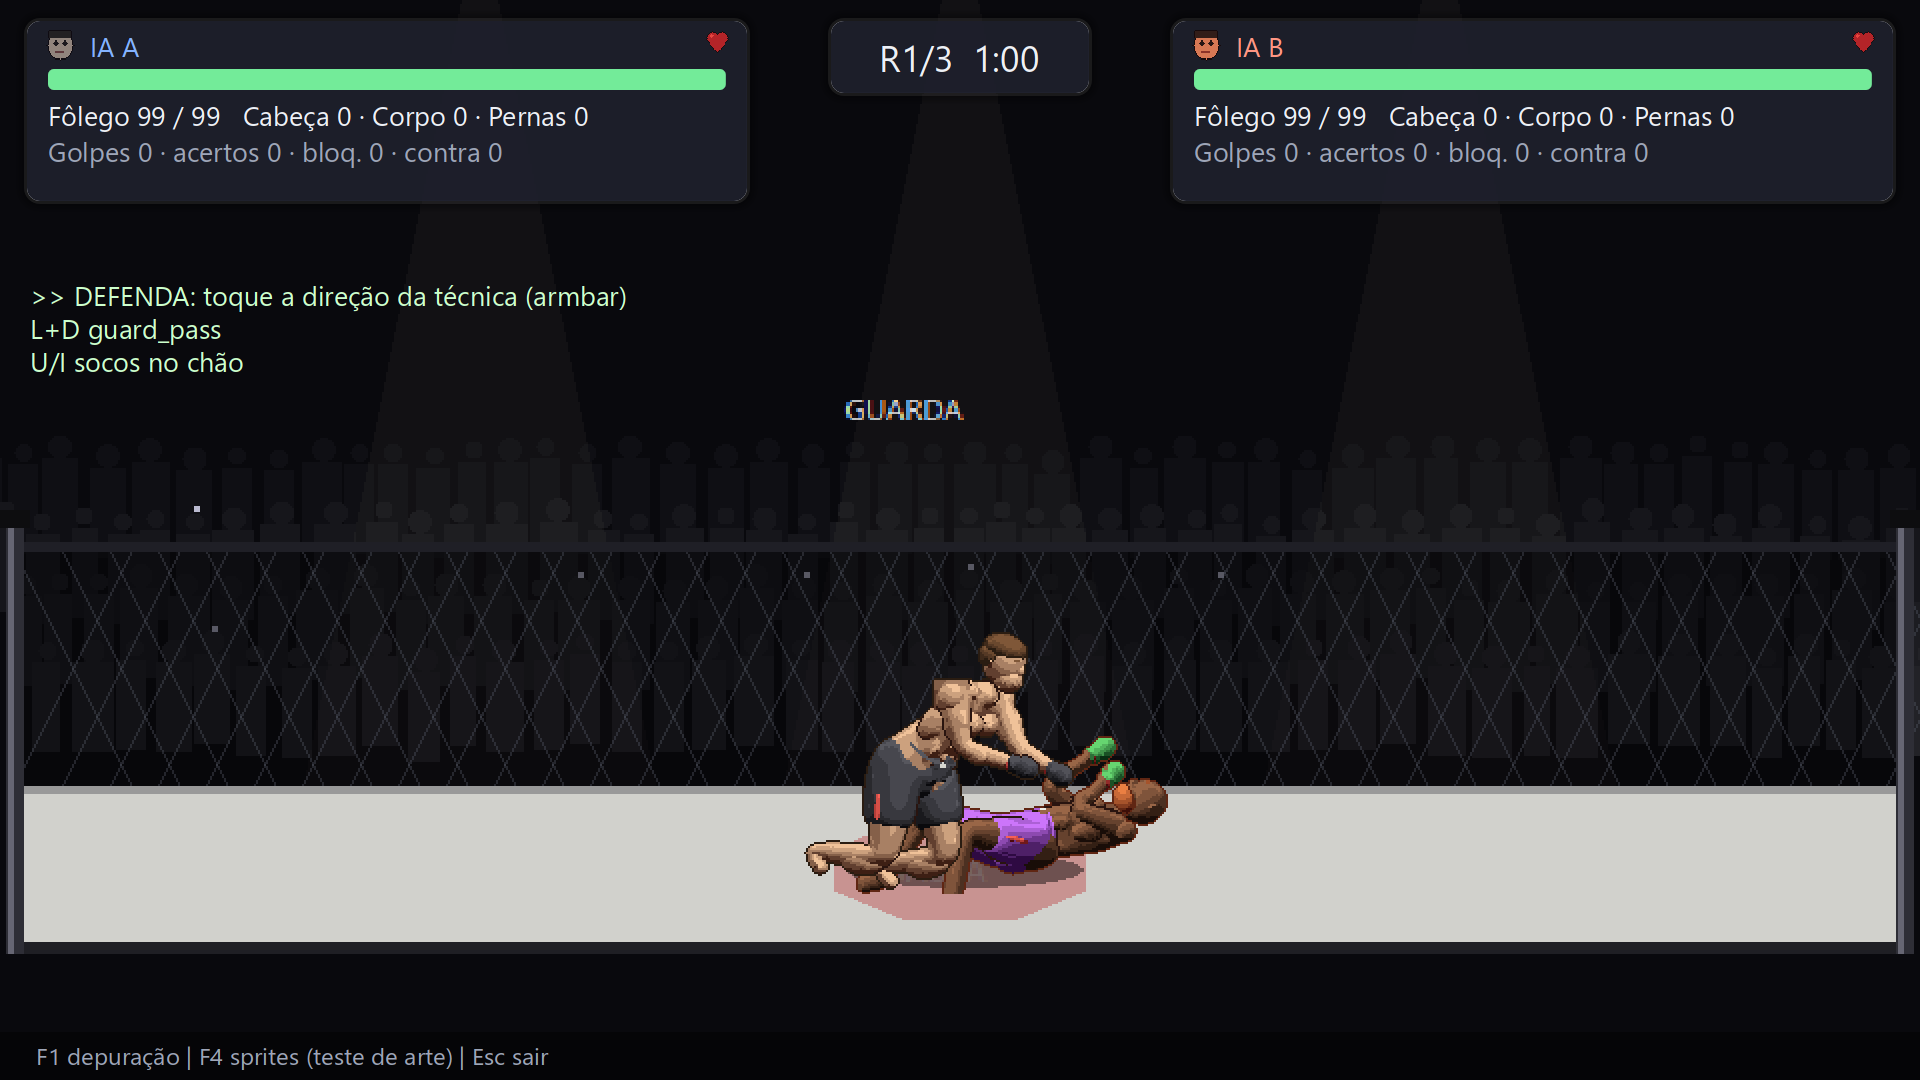
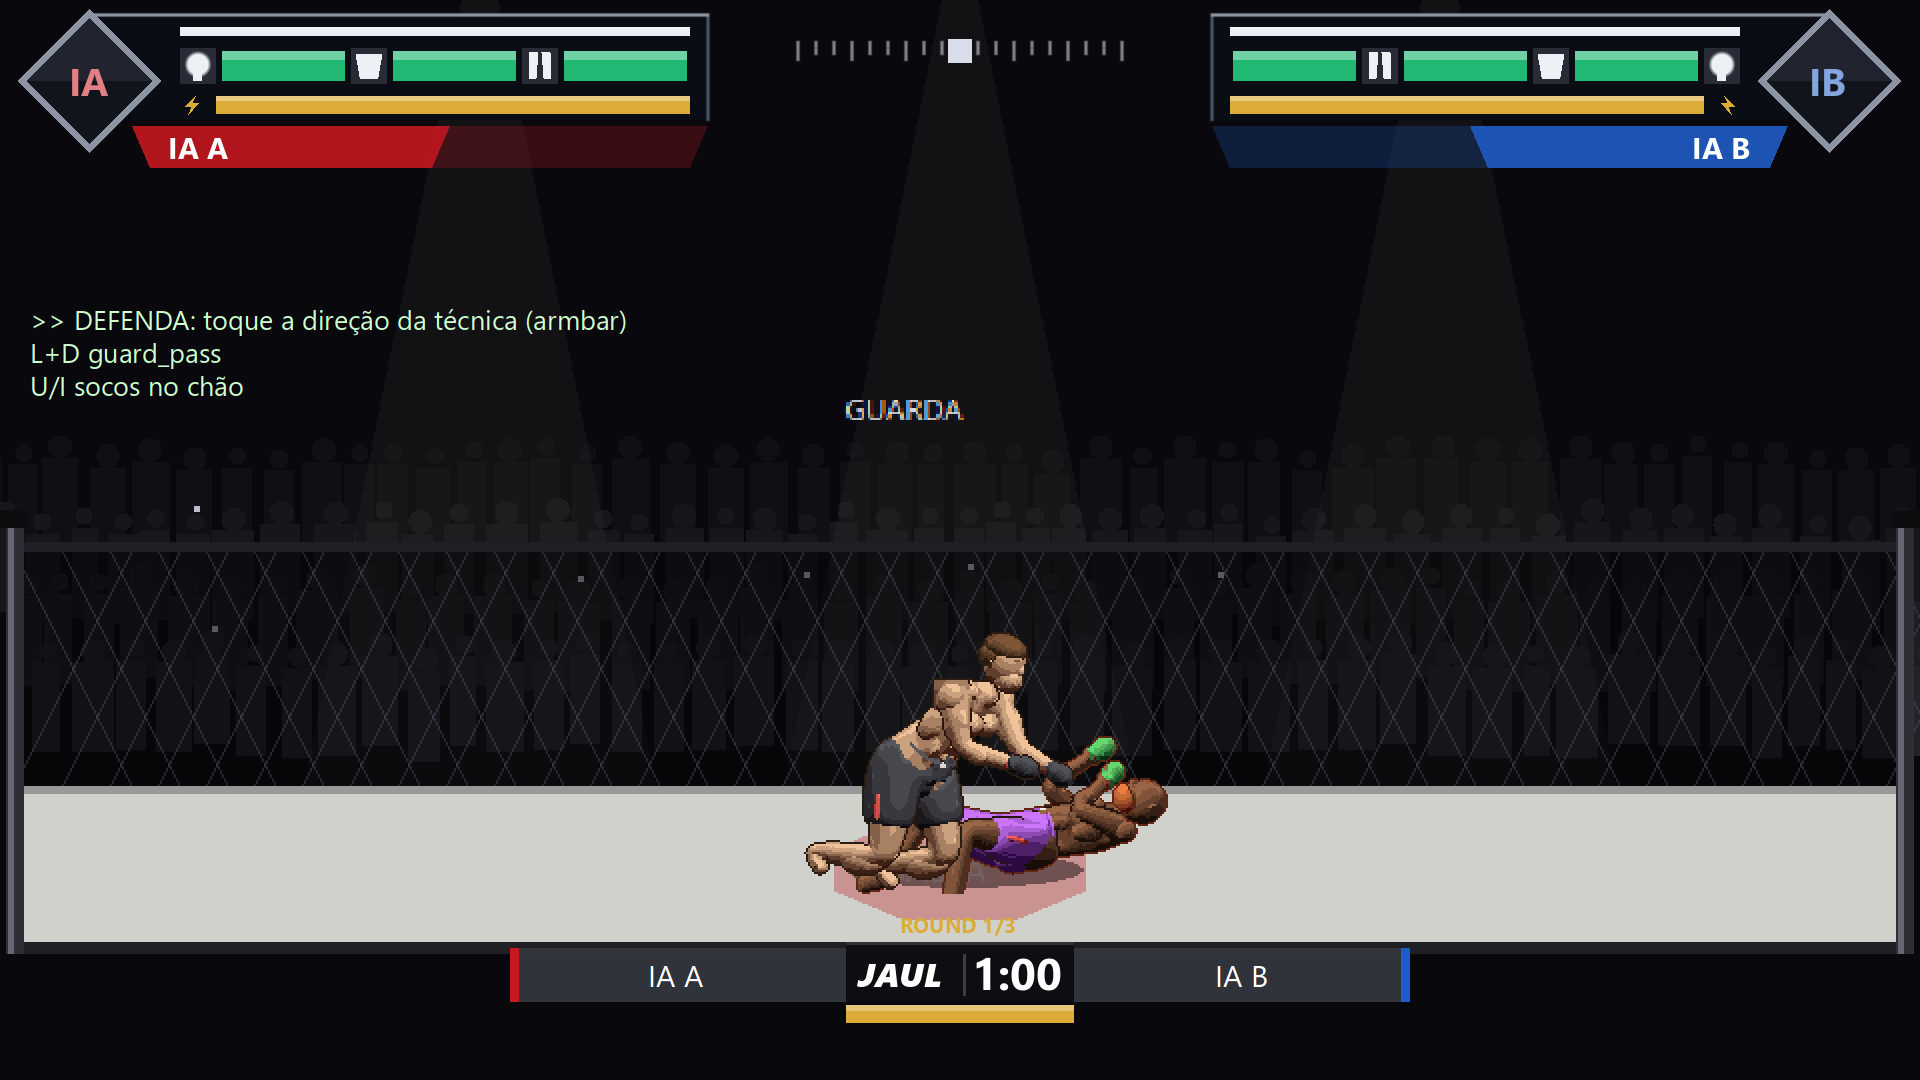
HUD de luta no estilo de transmissão e HUD de dano opcional (D-023)
- Painéis de canto: emblema com iniciais, reserva, dano por cabeça/corpo/pernas, fôlego, faixa do córner
- Régua de domínio no topo; placar centralizado com organização fictícia, cronômetro, round e barra do tempo
- Opção 'HUD de dano' nas configurações (persistida); intervalo e fim de luta restilizados
- 168 testes passando

diff --git a/docs/DECISIONS.md b/docs/DECISIONS.md
@@ -29,6 +29,7 @@
 | D-018 | **Menus e HUD em HD** (UI renderizada na resolução da janela, fonte do sistema); a luta continua em pixel art fiel numa SubViewport 640×360 (revisa T-011) | Pedido do usuário, 2026-11-20 |
 | D-019 | **Criador de visual** estilo Stardew/Terraria: sprites em camadas (corpo, 3 cabelos, barba) e troca de paleta por shader (8 peles, 6 cores de cabelo, 8 calções, 6 luvas); biótipos m_medium e f_medium; aba Visual na carreira (gratuita, só aparência) | Pedido do usuário, 2026-11-20 (resolve P-004 de forma inicial) |
 | D-020 | **HUD e telas com elementos de RPG**: ícones em pixel art gerados por código, cinturões, selo de nível, ficha de atributos | Pedido do usuário, 2026-11-20 |
+| D-023 | **HUD de luta no estilo de transmissão** (referência: jogo de MMA da EA enviado pelo usuário, sem marcas reais): painéis de canto com emblema, reserva, dano por região e fôlego, faixa do nome na cor do córner; régua de domínio no topo; placar centralizado embaixo com organização fictícia, cronômetro, round e barra do tempo. **HUD de dano opcional** em Opções (padrão: ligado). Tudo desenhado na resolução da janela (HD) | Pedido do usuário, 2026-11-20 |
 | D-022 | **Sprites no estilo da referência do usuário e lutadores maiores**: corpo orgânico em 3/4 (luvas de MMA, linhas internas, relevo muscular), **≈189 px de altura** (105 px/m) numa área de luta de **960×540** (2x exato em 1080p, 4x em 4K; 2,67x em 1440p). Criador de personagem ampliado: 4 físicos (só visuais), 9 cabelos, 5 barbas, 8 peles, cores de cabelo/calção/luvas. Revisa R-003 e a altura de ART §3 | Pedido do usuário, 2026-11-20 (imagem de referência; escolheu 192 px) |
 | D-021 | Áudio provisório **sintetizado por código** (sem assets de terceiros) até haver design de áudio (V-005) | Autonomia autorizada pelo usuário, 2026-11-20 |
 | D-016 | Todas as teclas são **remapeáveis pelo jogador**; padrões simples definidos pelo Claude (U/I mãos, J/K pernas, E curvo, Q corpo, Shift guarda, Espaço técnica, L agarrar) | Usuário, 2026-11-19 (E-03) |
@@ -144,6 +145,7 @@ Registro completo em [architecture/TECH_DECISIONS.md](architecture/TECH_DECISION
 |---|---|---|
 | 0.1 | 2026-11-19 | Criação do registro na Etapa 01 |
 | 0.2 | 2026-11-19 | Respostas a P-001, P-002, P-003 (método) e P-007 → D-012 a D-015; R-008 revisada; novas R-036 a R-038 |
+| 0.10 | 2026-11-20 | D-023: HUD de transmissão e HUD de dano opcional |
 | 0.9 | 2026-11-20 | D-022: estilo da referência, 960×540, criador ampliado |
 | 0.8 | 2026-11-20 | Sessão autônoma noturna: D-018 a D-021; M3 e M4 medidos; V-009 resolvida (6 finalizações, meia-guarda, golpes no clinch) |
 | 0.7 | 2026-11-20 | M2 aprovado → D-017 (pipeline 3D → pixel); P-003 resolvida |
